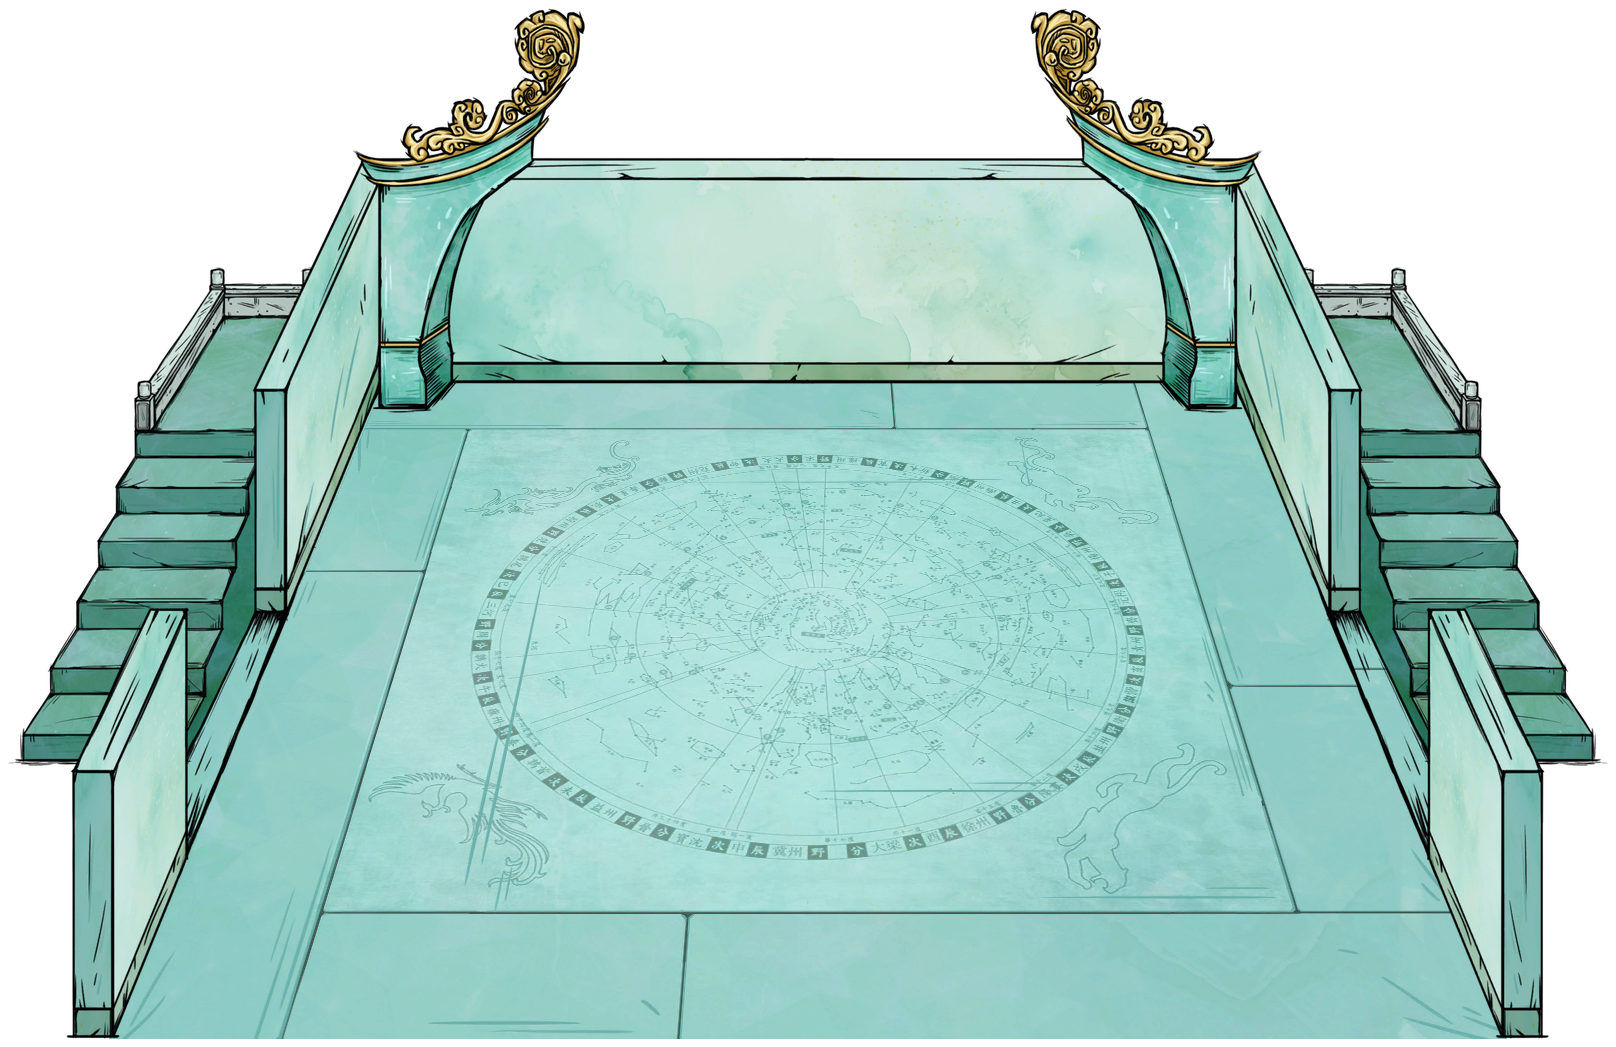
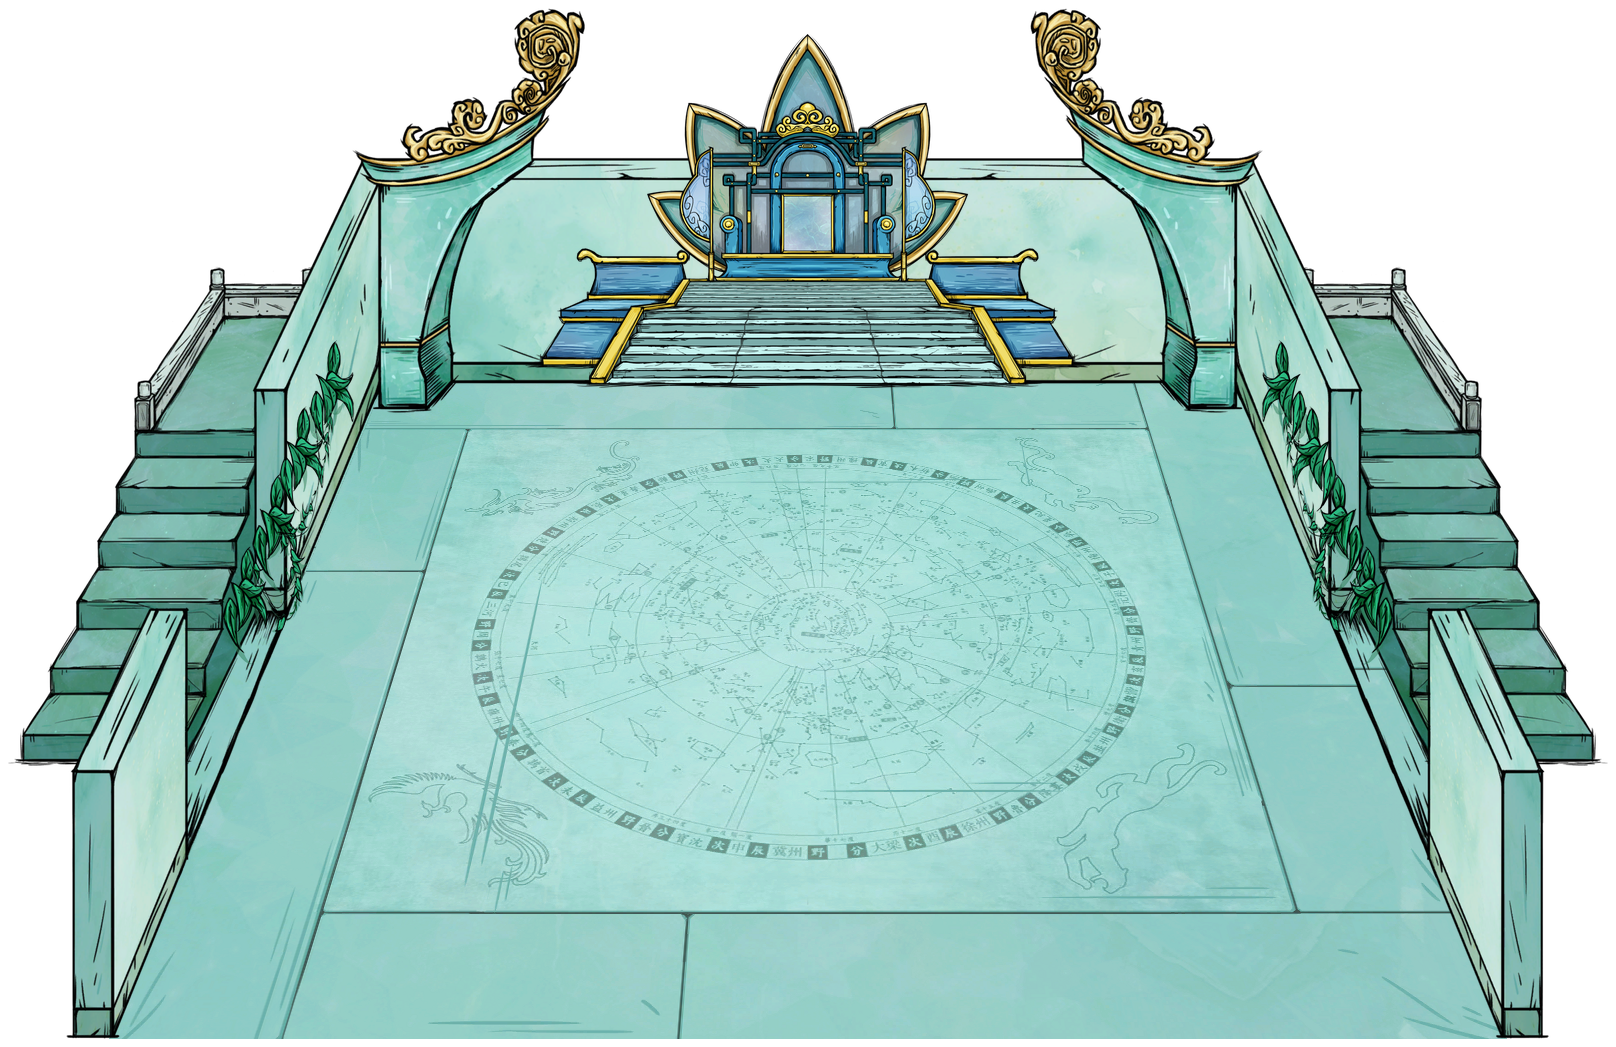
fix: 补齐厅堂灵藤与太极莲尊并添加卧房入口热点

Changed region(s): [[0.3094, 0.0306, 0.6807, 0.3973], [0.7735, 0.3362, 0.8663, 0.6113], [0.1238, 0.3362, 0.2166, 0.6113]]

diff --git a/index.html b/index.html
@@ -261,7 +261,7 @@
             <img src="{{image}}" alt="{{name}}" loading="lazy" onerror="window.App.onImageError(this)">
             {{#owner_stamp}}<span class="owner-stamp" role="img" aria-label="{{owner_label}}" title="{{owner_label}}">{{owner_stamp}}</span>{{/owner_stamp}}
             {{#building_entry}}<button class="building-entry__enter" type="button" data-building-room="{{target}}" aria-label="{{label}}"><span>{{label}} →</span></button>{{/building_entry}}
-            {{#scene_hotspots}}<button class="scene-hotspot" type="button" style="{{position}}" data-building-room="{{target}}" aria-label="{{label}}：{{hint}}"><span class="scene-hotspot__hint">{{label}} · {{hint}} →</span></button>{{/scene_hotspots}}
+            {{#scene_hotspots}}<button class="scene-hotspot" type="button" style="{{position}}" data-building-room="{{target}}" data-hint-align="{{hint_align}}" aria-label="{{label}}：{{hint}}"><span class="scene-hotspot__hint">{{label}} · {{hint}} →</span></button>{{/scene_hotspots}}
           </div>
           <p class="building-entry__caption"><span>{{number}}</span> {{#preview_caption}}{{preview_caption}}{{/preview_caption}}{{^preview_caption}}屋外入口{{/preview_caption}}</p>
           <div class="building-entry__exits" role="group" aria-label="从{{name}}出发">
@@ -443,7 +443,7 @@
         </picture>
         {{#owner_stamp}}<span class="owner-stamp" role="img" aria-label="{{owner_label}}" title="{{owner_label}}">{{owner_stamp}}</span>{{/owner_stamp}}
         {{#scene_hotspots}}
-        <button class="scene-hotspot" type="button" style="{{position}}" data-open-entry="{{target}}" aria-label="{{label}}：{{hint}}">
+        <button class="scene-hotspot" type="button" style="{{position}}" data-open-entry="{{target}}" data-hint-align="{{hint_align}}" aria-label="{{label}}：{{hint}}">
           <span class="scene-hotspot__hint">{{label}} · {{hint}} →</span>
         </button>
         {{/scene_hotspots}}

diff --git a/data/site-data.js b/data/site-data.js
@@ -3703,6 +3703,11 @@ window.SITE_DATA = {
       "title": "阁中厅堂",
       "illustration": "assets/img/terrains/loc_hall.png",
       "preview_caption": "厅堂内景预览",
+      "scene_hotspots": [
+        { "label": "引霄灵藤（左侧）", "target": "loc_bedroom", "x": 18.5644, "y": 47.9943, "width": 9.6535, "height": 31.0411, "hint": "进入左侧卧房", "hint_align": "start" },
+        { "label": "引霄灵藤（右侧）", "target": "loc_bedroom_right", "x": 81.4356, "y": 47.9943, "width": 9.6535, "height": 31.0411, "hint": "进入右侧卧房", "hint_align": "end" }
+      ],
+      "scene_hint": "点击两侧的引霄灵藤，进入对应卧房。",
       "summary": "青玄阁内连接两间卧房的厅堂，共用防猎犬生成、恒温、避雨与夜间照明。太极莲尊是陈设。",
       "image": "assets/img/terrains/bighead_fishhouse.png",
       "related": [

diff --git a/assets/css/components.css b/assets/css/components.css
@@ -1155,7 +1155,8 @@
   transition: transform var(--dur) var(--ease);
 }
 
-.building-entry__image--interior { aspect-ratio: 1616 / 1285; }
+.building-entry__image--interior { aspect-ratio: auto; }
+.building-entry__image--interior > img { height: auto; }
 
 .building-entry__enter { position: absolute; inset: 0; width: 100%; height: 100%; }
 .building-entry__enter > span {

diff --git a/assets/css/modal.css b/assets/css/modal.css
@@ -404,6 +404,17 @@
   visibility: visible;
 }
 
+.scene-hotspot[data-hint-align="start"] .scene-hotspot__hint {
+  left: 0;
+  transform: none;
+}
+
+.scene-hotspot[data-hint-align="end"] .scene-hotspot__hint {
+  left: auto;
+  right: 0;
+  transform: none;
+}
+
 .scene-preview-hint {
   margin: 0;
   color: var(--ink-2);

diff --git a/tools/export_terrain_previews.py b/tools/export_terrain_previews.py
@@ -12,7 +12,7 @@ import tempfile
 from pathlib import Path
 from zipfile import ZipFile
 
-from PIL import Image
+from PIL import Image, ImageOps
 from export_mod_displays import lua_string, request
 
 ROOT = Path(__file__).resolve().parent.parent
@@ -30,6 +30,25 @@ FLOOR_QUADS = {
     'loc_hall': [(380, 375), (1236, 375), (1507, 1039), (109, 1039)],
     'loc_bedroom': [(345, 540), (1271, 540), (1561, 1255), (55, 1255)],
     'loc_bedroom_right': [(345, 540), (1271, 540), (1561, 1255), (55, 1255)],
+}
+
+# Separate prefabs spawned by bighead_door_exit.lua, not baked into the walls.
+# Ground positions are (x, z) relative to the hall's house centre. The east-side
+# vine is mirrored by AnimState:SetScale(-scale, scale, scale) in the mod.
+FURNISHINGS = {
+    'loc_foyer': [
+        {'prefab': 'bighead_men1', 'animation': 'men1', 'center': (808, 395),
+         'target': 'loc_hall'},
+    ],
+    'loc_hall': [
+        {'prefab': 'bighead_yizi', 'animation': 'yizi',
+         'world_position': (-15.3, 0)},
+        {'prefab': 'bighead_men2', 'animation': 'men2',
+         'world_position': (1.65, -15), 'target': 'loc_bedroom'},
+        {'prefab': 'bighead_men2', 'animation': 'men2',
+         'world_position': (1.65, 15), 'mirror_x': True,
+         'target': 'loc_bedroom_right'},
+    ],
 }
 
 
@@ -68,6 +87,56 @@ def composite_floor(wall, floor, quad):
     return Image.alpha_composite(projected, wall)
 
 
+def ground_position(quad, position):
+    """Project the prefab's ground anchor onto the same plane as the floor."""
+    coefficients = perspective_coefficients([(0, 0), (1, 0), (1, 1), (0, 1)], quad)
+    a, b, c, d, e, f, g, h = coefficients
+    x, z = position
+    u, v = (z + 16.2) / 32.4, (x + 16.2) / 32.4
+    divisor = g * u + h * v + 1
+    return ((a * u + b * v + c) / divisor,
+            (d * u + e * v + f) / divisor)
+
+
+def composite_furnishings(scene, entry_id, ratio, scratch, frames):
+    records = []
+    for furnishing in FURNISHINGS.get(entry_id, []):
+        animation = furnishing['animation']
+        with Image.open(scratch / f'furnishing-{animation}.png') as source:
+            sprite = source.convert('RGBA')
+        bounds = sprite.getchannel('A').getbbox()
+        if bounds is None:
+            raise ValueError(f'Empty furnishing: {animation}')
+        # The explicit export canvas preserves the animation's original origin.
+        frame = frames[animation]
+        anchor = (sprite.width / 2 - frame['x'] - bounds[0],
+                  sprite.height / 2 - frame['y'] - bounds[1])
+        sprite = sprite.crop(bounds)
+        width, height = sprite.size
+        sprite = sprite.resize((round(width * ratio), round(height * ratio)),
+                               Image.Resampling.LANCZOS)
+        anchor = (anchor[0] * sprite.width / width,
+                  anchor[1] * sprite.height / height)
+        if furnishing.get('mirror_x'):
+            sprite = ImageOps.mirror(sprite)
+            anchor = (sprite.width - anchor[0], anchor[1])
+        if 'center' in furnishing:
+            center = furnishing['center']
+            position = (center[0] - sprite.width // 2, center[1] - sprite.height // 2)
+        else:
+            ground = ground_position(FLOOR_QUADS[entry_id], furnishing['world_position'])
+            position = (round(ground[0] - anchor[0]), round(ground[1] - anchor[1]))
+        scene.alpha_composite(sprite, position)
+        record = {'prefab': furnishing['prefab'], 'source': 'bighead_men',
+                  'animation': animation, 'frame': 1,
+                  'bounds': [*position, *sprite.size]}
+        for key in ('target', 'world_position', 'mirror_x'):
+            if key in furnishing:
+                record[key] = furnishing[key]
+        records.append(record)
+    return records
+
+
 def export(tool, mod):
     records = []
     with tempfile.TemporaryDirectory(prefix="pty-room-previews-") as temporary:
@@ -98,24 +167,36 @@ def export(tool, mod):
                 f'{lua_string(scratch / (entry_id + "-floor.png"))}, {{',
                 f'builds={{doc.builds:find("{floor_source}")}}, hide_layers={{}}, override_symbols={{}}, scale=1}})',
             ])
-        code.extend([
-            f'doc:import_resources({{{lua_string(scratch / "bighead_men.zip")}}})',
-            'doc.banks:find("bighead_men").animations:find("men1").frames[1]:export_png('
-            + lua_string(scratch / 'foyer-bell.png') + ', {'
-            + 'builds={doc.builds:find("bighead_men")}, hide_layers={}, override_symbols={}, scale=1})',
-        ])
+        code.append(f'doc:import_resources({{{lua_string(scratch / "bighead_men.zip")}}})')
+        animations = sorted({item['animation'] for items in FURNISHINGS.values() for item in items})
+        for animation in animations:
+            code.extend([
+                f'local f=doc.banks:find("bighead_men").animations:find("{animation}").frames[1]',
+                f'print("FURNISHING","{animation}",f.x,f.y)',
+                'f:export_png(' + lua_string(scratch / f'furnishing-{animation}.png') + ', {'
+                + 'builds={doc.builds:find("bighead_men")}, hide_layers={}, override_symbols={}, scale=1,'
+                + 'canvas={center_x=f.x,center_y=f.y,width=math.ceil(f.width)+16,height=math.ceil(f.height)+16}})',
+            ])
         before = request(code='assert(tool.document_is_empty, "Room export requires an empty document"); print(tool.document_revision)', tool=tool, scratch=scratch)
         # A failed deferred export can still commit an import. Check revision
         # separately and undo only this transaction, preserving the user's state.
         try:
             report = request(tool=tool, code="\n".join(code), scratch=scratch)
-            if len(report['tool_results']) != len(ROOMS) * 5 + 1:
+            if len(report['tool_results']) != len(ROOMS) * 5 + len(animations):
                 raise RuntimeError("Incomplete room export")
         finally:
             after = request(code='print(tool.document_revision)', tool=tool, scratch=scratch)
             if after['output'] != before['output']:
                 request(tool=tool, code='tool:undo()', scratch=scratch)
+        frames = {}
+        room_reports = []
         for line in report['output']:
+            if line.startswith('FURNISHING\t'):
+                _, animation, x, y = line.split('\t')
+                frames[animation] = {'x': float(x), 'y': float(y)}
+            elif line.startswith('ROOM\t'):
+                room_reports.append(line)
+        for line in room_reports:
             _, entry_id, width, height, tile_width, tile_height = line.split('\t')
             tw, th = int(tile_width), int(tile_height)
             native = Image.new('RGBA', (tw * 2, th * 2))
@@ -136,21 +217,8 @@ def export(tool, mod):
             floor_size = floor.size
             floor = floor.crop(floor.getchannel('A').getbbox())
             padded = composite_floor(padded, floor, FLOOR_QUADS[entry_id])
-            furnishings = []
-            if entry_id == 'loc_foyer':
-                with Image.open(scratch / 'foyer-bell.png') as source_bell:
-                    bell = source_bell.convert('RGBA')
-                bell = bell.crop(bell.getchannel('A').getbbox())
-                # Use the wall's reduction ratio, keeping the original men1 art.
-                ratio = image.width / native_size[0]
-                bell = bell.resize((round(bell.width * ratio), round(bell.height * ratio)),
-                                   Image.Resampling.LANCZOS)
-                center = (808, 395)
-                position = (center[0] - bell.width // 2, center[1] - bell.height // 2)
-                padded.alpha_composite(bell, position)
-                furnishings.append({'prefab': 'bighead_men1', 'source': 'bighead_men',
-                                    'animation': 'men1', 'frame': 1, 'target': 'loc_hall',
-                                    'bounds': [*position, *bell.size]})
+            furnishings = composite_furnishings(padded, entry_id, image.width / native_size[0],
+                                                scratch, frames)
             target = ROOT / 'assets/img/terrains' / f'{entry_id}.png'
             padded.save(target, optimize=True)
             source = next(source for room_id, source, _ in ROOMS if room_id == entry_id)

diff --git a/docs/04-v4.8资料同步.md b/docs/04-v4.8资料同步.md
@@ -100,6 +100,12 @@ python tools/export_mod_displays.py --tool "C:/tools/dst-app.exe" --mod "../bigh
 在后墙中央显示鎏金太极铃。其素材、位置与尺寸记录在前室的 `furnishings` 中；
 条目 `scene_hotspots` 使用相对坐标覆盖铃铛，鼠标点击、触摸或键盘激活会打开厅堂详情。
 
+厅堂另外叠入同一动画包的 `yizi`（太极莲尊）和两份 `men2`（引霄灵藤）第1帧。
+使用与墙景一致的缩小比例，根据房间生成代码中相对中心的坐标，将各自的动画原点投影到
+同一地面平面；右侧灵藤按代码中的 `eastside` 水平镜像。清单记录素材、房间坐标、镜像
+及最终图像边界。左右灵藤各自覆盖一个热点，建筑区原地进入对应卧房，详情弹窗中打开
+对应卧房详情。室内展示容器跟随各张原图比例，避免热点因等比留白而偏离陈设。
+
 ```powershell
 python tools/export_terrain_previews.py --tool "C:/tools/dst-app.exe" --mod "../bighead.zip"
 ```
